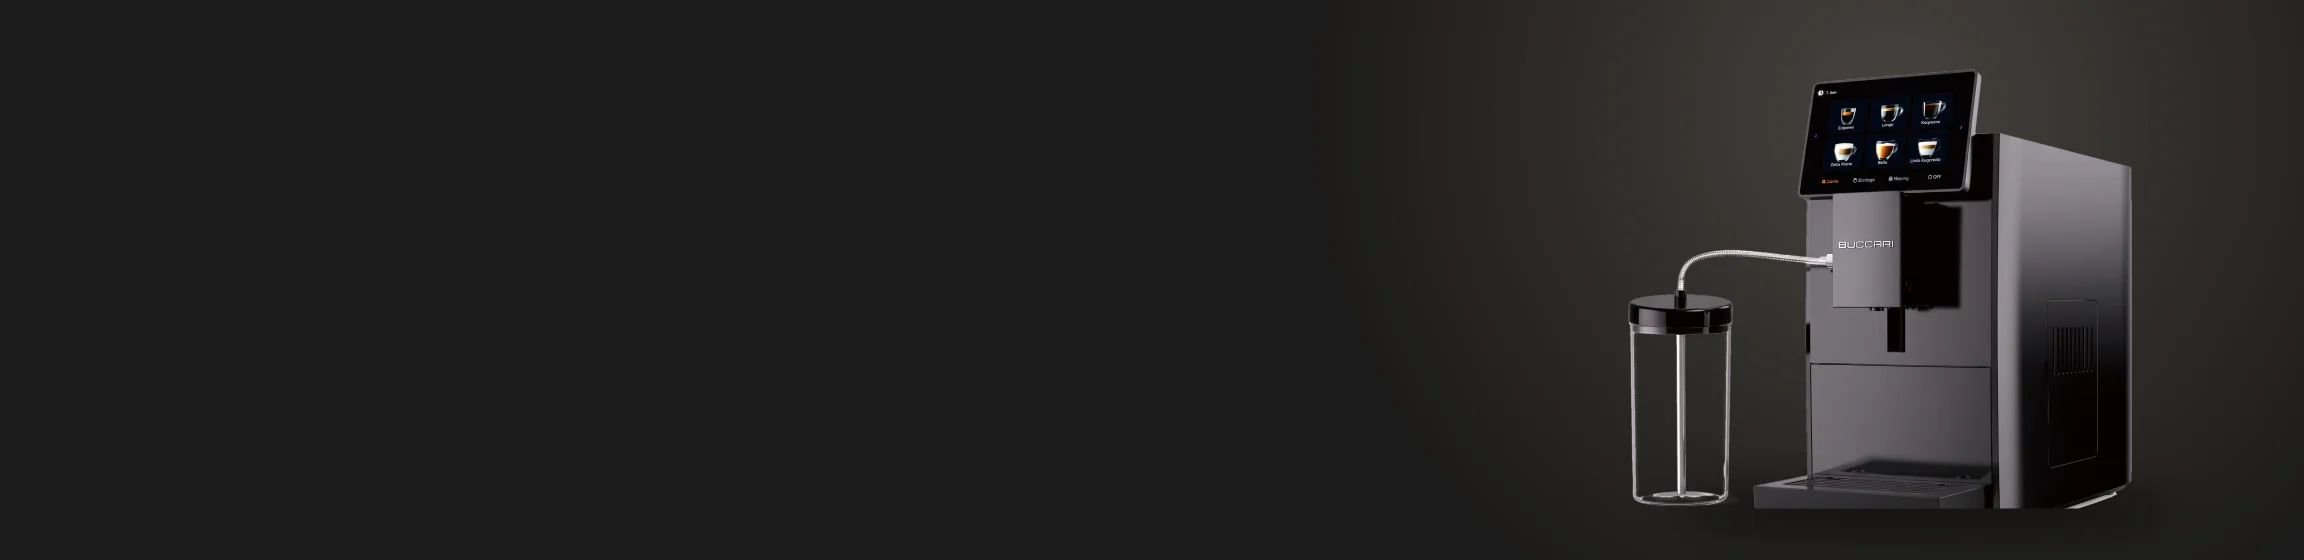
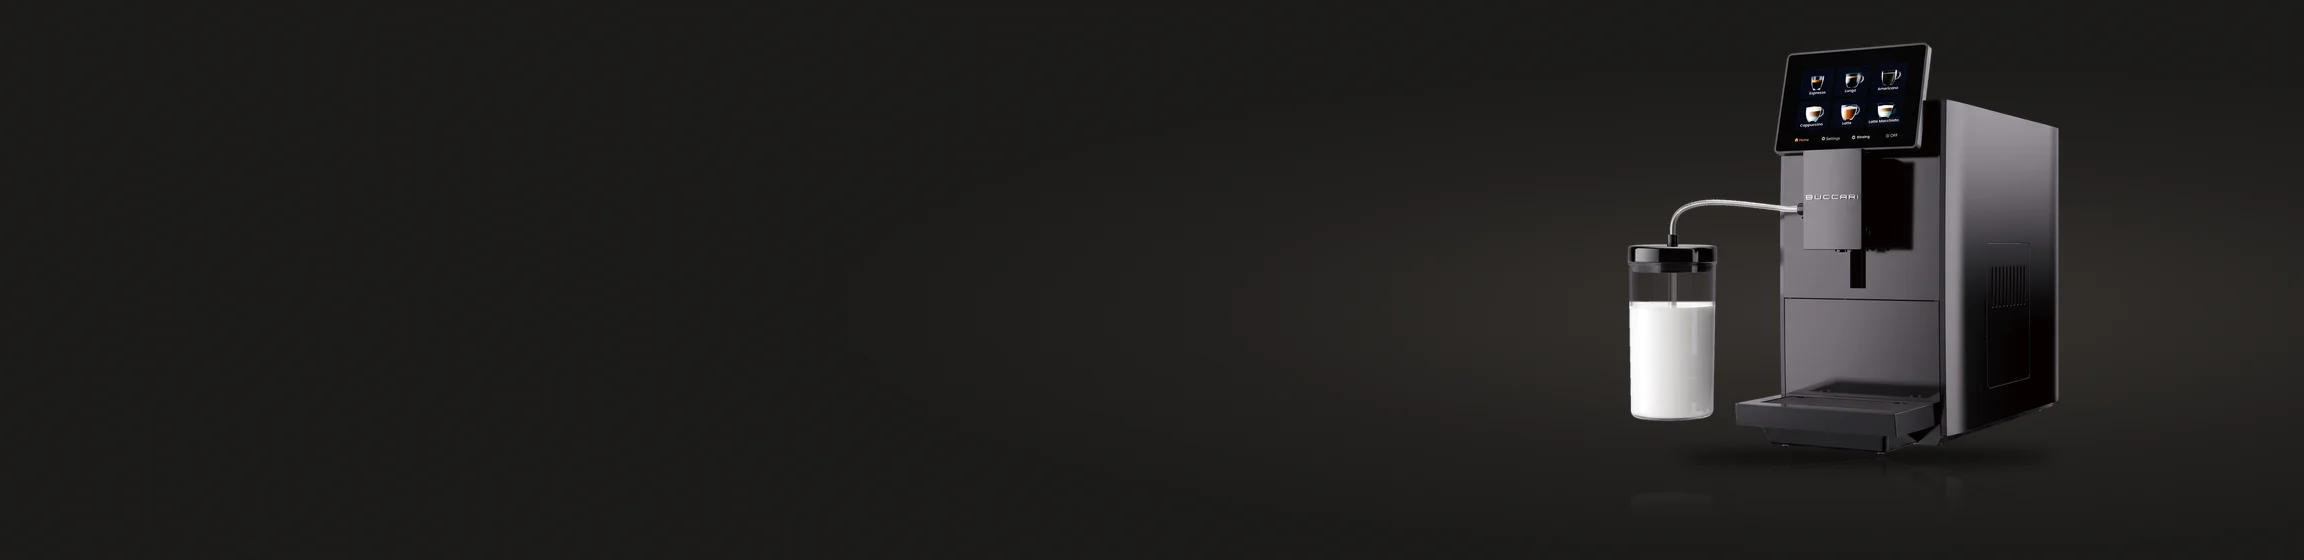
Copper crema accent from the BC-05 gift box; BC-05 photos from the packaging
Eyebrow labels, header hairline and a bottom strip use the box's copper
gradient (darker in light mode, brighter in dark mode and on photos).
BC-05 hero, coffee category strip and touch-screen image replaced with
the packaging renders (machine on graphite, flat English UI screen).

Claude-Session: https://claude.ai/code/session_016nNbgK9XUy49ZdD95FKshF

Changed region(s): [[0.6875, 0.0, 0.9375, 0.9107]]

diff --git a/index.html b/index.html
@@ -22,12 +22,12 @@
 <style>
 /* Layout: boutique-style home — centred logo with a category bar beneath, then rounded tiles in a 3-column bento per collection (one large photo/colour tile + category cards), a brand statement band, service tiles, support and a column footer. Warm espresso tones at night, warm paper by day. */
 :root{
-  --paper:#F4F2EF; --card:#FBFAF8; --card2:#ECE9E4; --ink:#141414; --muted:#6B6862; --rule:#D8D3CA; --line:#8E8981; --accent:#8A6A4A;
+  --paper:#F4F2EF; --card:#FBFAF8; --card2:#ECE9E4; --ink:#141414; --muted:#6B6862; --rule:#D8D3CA; --line:#8E8981; --accent:#8A6A4A; --crema:linear-gradient(90deg,#8A6A4A,#B98455 50%,#8A6A4A);
   --tile-a:#4A4642; --tile-b:#1C1B1A;
   --f-body:'Jost','Noto Sans SC','Noto Sans Arabic',system-ui,sans-serif;
   --logo-filter:none; --r:16px; color-scheme:light;
 }
-:root[data-mode="dark"]{--paper:#161514; --card:#1E1D1B; --card2:#24221F; --ink:#EEEAE4; --muted:#A39E96; --rule:#34312D; --line:#6E6961; --accent:#C9A27C; --tile-a:#3A3734; --tile-b:#1E1D1B; --logo-filter:invert(1); color-scheme:dark}
+:root[data-mode="dark"]{--paper:#161514; --card:#1E1D1B; --card2:#24221F; --ink:#EEEAE4; --muted:#A39E96; --rule:#34312D; --line:#6E6961; --accent:#C9A27C; --crema:linear-gradient(90deg,#B98455,#E2BC8C 50%,#B98455); --tile-a:#3A3734; --tile-b:#1E1D1B; --logo-filter:invert(1); color-scheme:dark}
 html[lang="ar"]{--f-body:'Noto Sans Arabic','Jost',system-ui,sans-serif}
 html[lang="zh"]{--f-body:'Noto Sans SC','Jost',system-ui,sans-serif}
 *{box-sizing:border-box}
@@ -41,6 +41,12 @@ a{color:inherit}
 .wrap{max-width:1200px; margin:0 auto; padding-inline:max(24px,env(safe-area-inset-left)) max(24px,env(safe-area-inset-right))}
 @media (max-width:520px){.wrap{padding-inline:max(16px,env(safe-area-inset-left)) max(16px,env(safe-area-inset-right))}}
 .eyebrow{font-weight:500; font-size:12px; letter-spacing:3px; text-transform:uppercase; color:var(--muted)}
+/* Copper "crema" accent, same gradient as the BC-05 gift box: eyebrow labels, the header hairline and a strip at the very bottom */
+.eyebrow{display:inline-block; background:var(--crema); -webkit-background-clip:text; background-clip:text; -webkit-text-fill-color:transparent}
+.big .cap,.cat-hero,.pv-hero{--crema:linear-gradient(90deg,#B98455,#E2BC8C 50%,#B98455);}
+.big.light .cap,.cat-hero.light{--crema:linear-gradient(90deg,#8A6A4A,#B98455 50%,#8A6A4A);}
+:root[data-mode="dark"] .big.light .cap,:root[data-mode="dark"] .cat-hero.light{--crema:linear-gradient(90deg,#B98455,#E2BC8C 50%,#B98455);}
+body::after{content:""; display:block; height:4px; background:var(--crema)}
 html[lang="ar"] .eyebrow,html[lang="zh"] .eyebrow{letter-spacing:0; font-size:13px}
 h1,h2,h3,h4{text-wrap:balance; margin:0; font-weight:400}
 p{margin:0}
@@ -50,7 +56,7 @@ html[lang="ar"] .up,html[lang="zh"] .up{letter-spacing:0; text-transform:none}
 
 /* header */
 .top{position:sticky; top:0; z-index:5; background:var(--paper); padding-top:env(safe-area-inset-top,0px); transition:background .3s}
-.bar{display:grid; grid-template-columns:1fr auto 1fr; align-items:center; gap:12px; min-height:64px; border-bottom:1px solid var(--rule)}
+.bar{display:grid; grid-template-columns:1fr auto 1fr; align-items:center; gap:12px; min-height:64px; border-bottom:1px solid var(--rule); border-image:var(--crema) 1}
 .bar .side{display:flex; align-items:center; gap:6px; min-width:0}
 .bar .side.end{justify-content:flex-end}
 .brand img{width:150px; height:auto; display:block; filter:var(--logo-filter)}
@@ -69,7 +75,7 @@ html[lang="ar"] .up,html[lang="zh"] .up{letter-spacing:0; text-transform:none}
 .catbar a:first-child{margin-inline-start:auto}
 .catbar a:last-child{margin-inline-end:auto}
 .catbar a{flex-shrink:0; text-decoration:none; font-size:11.5px; font-weight:500; letter-spacing:.8px; text-transform:uppercase; padding-block:12px; color:var(--ink); white-space:nowrap; border-bottom:1px solid transparent}
-.catbar a:hover,.catbar a[aria-current="page"]{border-bottom-color:var(--ink)}
+.catbar a:hover,.catbar a[aria-current="page"]{border-bottom-color:var(--accent)}
 html[lang="ar"] .catbar a,html[lang="zh"] .catbar a{letter-spacing:0; font-size:14px}
 
 @media (max-width:640px){
@@ -668,7 +674,7 @@ var PAGES = {
     h+='<section class="pv-sec"><div class="head"><div class="eyebrow">'+esc(p.name)+'</div><h2>'+esc(t.p_drinksTitle)+'</h2><p class="lead">'+esc(t.p_drinksLead)+'</p></div><div class="drinks">';
     DRINKS.forEach(function(d){ h+='<div class="drink">'+(d[0]==='water'?'<div class="plate water" aria-hidden="true"><span></span></div>':'<div class="plate"><img src="img/'+d[0]+'.jpg" alt="" loading="lazy" width="360" height="360"></div>')+'<div class="name">'+esc(d[li])+'</div></div>'; });
     h+='</div></section>';
-    h+='<section class="pv-sec"><div class="split"><img src="img/screen.png" alt="'+esc(t.p_screenAlt)+'" loading="lazy"><div><div class="head" style="margin-bottom:0"><div class="eyebrow">'+esc(t.p_screenEyebrow)+'</div><h2>'+esc(t.p_screenTitle)+'</h2><p class="lead">'+esc(t.p_screenLead)+'</p></div><ul class="ticks"><li>'+esc(t.p_tick1)+'</li><li>'+esc(t.p_tick2)+'</li><li>'+esc(t.p_tick3)+'</li></ul></div></div></section>';
+    h+='<section class="pv-sec"><div class="split"><img src="img/screen.webp" alt="'+esc(t.p_screenAlt)+'" loading="lazy"><div><div class="head" style="margin-bottom:0"><div class="eyebrow">'+esc(t.p_screenEyebrow)+'</div><h2>'+esc(t.p_screenTitle)+'</h2><p class="lead">'+esc(t.p_screenLead)+'</p></div><ul class="ticks"><li>'+esc(t.p_tick1)+'</li><li>'+esc(t.p_tick2)+'</li><li>'+esc(t.p_tick3)+'</li></ul></div></div></section>';
     var FI={f1:'<circle cx="12" cy="12" r="8"/><circle cx="12" cy="12" r="3"/><path d="M12 4v2M12 18v2M4 12h2M18 12h2"/>',f2:'<path d="M8 2h8M9 2v3l-2 3v12a2 2 0 0 0 2 2h6a2 2 0 0 0 2-2V8l-2-3V2"/><path d="M7 12h10"/>',f3:'<path d="M6 3h12v16a2 2 0 0 1-2 2H8a2 2 0 0 1-2-2z"/><path d="M6 9c2 1 4-1 6 0s4 1 6 0"/>',f4:'<ellipse cx="12" cy="12" rx="6" ry="9" transform="rotate(30 12 12)"/><path d="M9 5c3 3 3 11 6 14"/>',f5:'<path d="M12 3v4M8 5l2 3M16 5l-2 3"/><path d="M5 12h14l-1.5 8h-11z"/>',f6:'<path d="M12 3c3 4 6 7 6 11a6 6 0 0 1-12 0c0-4 3-7 6-11z"/><path d="M9 15h6"/>'};
     h+='<section class="pv-sec"><div class="head"><div class="eyebrow">'+esc(t.p_featEyebrow)+'</div><h2>'+esc(t.p_featTitle)+'</h2></div><div class="features">';
     ['f1','f2','f3','f4','f5','f6'].forEach(function(f){ h+='<div class="feature">'+svg(FI[f],28)+'<h3>'+esc(t['p_'+f+'t'])+'</h3><p>'+esc(t['p_'+f+'d'])+'</p></div>'; });
